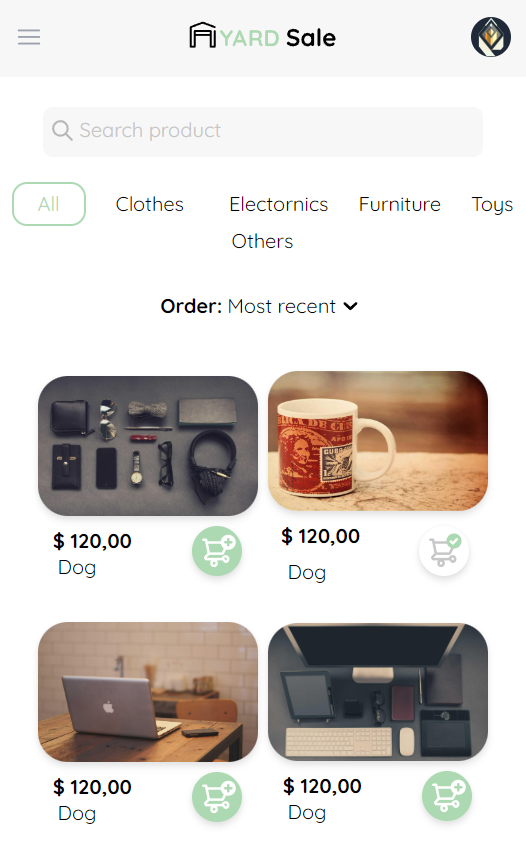
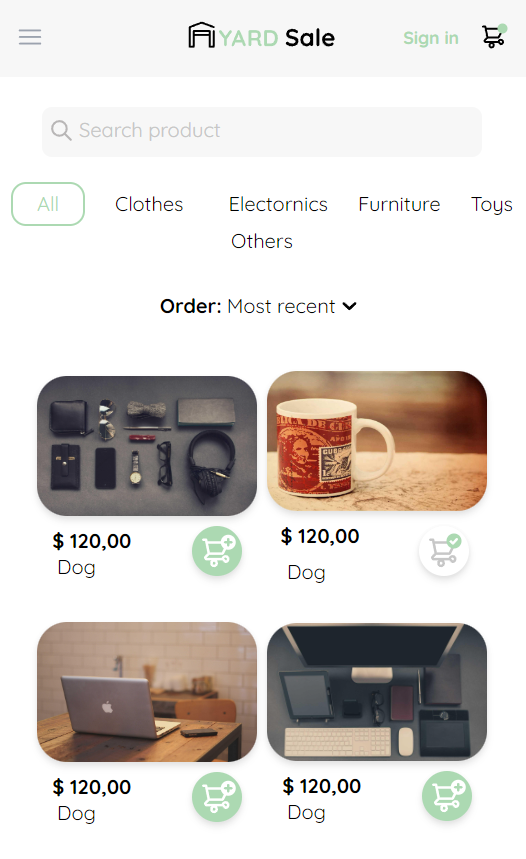
[FINISH] Sing_out

diff --git a/src/components/Sign_out.jsx b/src/components/Sign_out.jsx
@@ -17,12 +17,12 @@ const navigation = [
 	{
 		name: 'Electronics',
 		href: '#',
-		current: false,
+		current: false
 	},
 	{
 		name: 'Furniture',
 		href: '#',
-		current: false,
+		current: false
 	},
 ];
 const navigationO = [
@@ -83,13 +83,8 @@ export default function Example() {
 							<div className="flex flex-1 items-center justify-center sm:items-stretch sm:justify-start">
 								<div className="flex flex-shrink-0 items-center">
 									<a href="/">
-                                    <img
-										className="h-8 w-full"
-										src="\yard_sale.svg"
-										alt="Yard Sale"
-									/>
-                                    </a>
-                                    
+										<img className="h-8 w-full" src="\yard_sale.svg" alt="Yard Sale" />
+									</a>
 								</div>
 								<div className="hidden sm:ml-6 sm:block">
 									<div className="flex space-x-4">
@@ -101,7 +96,7 @@ export default function Example() {
 												rel="noopener noreferrer"
 												className={classNames(
 													item.current
-														? 'bg-grisClaro text-verde border-2 border-verde'
+														? 'border-2 border-verde bg-grisClaro text-verde'
 														: 'text-black hover:bg-[#acacac] hover:text-white',
 													'rounded-xl px-4 py-1 text-sm font-medium'
 												)}
@@ -110,7 +105,7 @@ export default function Example() {
 												{item.name}
 											</a>
 										))}
-										{navigationT.map((item) => (
+                                        {navigationT.map((item) => (
 											<a
 												key={item.name}
 												href={item.href}
@@ -154,9 +149,31 @@ export default function Example() {
 										<MenuButton className="relative flex text-sm focus:outline-none focus:ring-2 focus:ring-white focus:ring-offset-2 focus:ring-offset-gray-800">
 											<span className="absolute -inset-1.5" />
 											<span className="sr-only">Open user menu</span>
-											<p class="text-verde font-bold">Sign in</p>
+											<p class="hidden font-bold lg:flex">
+												yardsale@examle.com
+												<img
+													className="ml-2 rotate-90 flex sm:flex"
+                                                    class="h-8 w-8"
+													src="\flechita_2.svg"
+													alt="Flecha"
+												/>
+											</p>
 										</MenuButton>
-										<img className="h-6 w-6 ml-4" src="\Platzi Yard Sale\Platzi_YardSale_Icons\icon_shopping_cart_notification.svg" alt="icon_shopping_cart_notification" />
+                                        <MenuButton className="relative flex text-sm focus:outline-none focus:ring-2 focus:ring-white focus:ring-offset-2 focus:ring-offset-gray-800">
+											<span className="absolute -inset-1.5" />
+											<span className="sr-only">Open user menu</span>
+												<img
+													className="ml-2 rotate-90 flex lg:hidden"
+                                                    class="h-8 w-8"
+													src="\flechita_2.svg"
+													alt="Flecha"
+												/>
+										</MenuButton>
+										<img
+											className="ml-4 h-6 w-6"
+											src="\Platzi Yard Sale\Platzi_YardSale_Icons\icon_shopping_cart_notification.svg"
+											alt="icon_shopping_cart_notification"
+										/>
 									</div>
 									<Transition
 										enter="transition ease-out duration-100"
@@ -167,16 +184,30 @@ export default function Example() {
 										leaveTo="transform opacity-0 scale-95"
 									>
 										<MenuItems className="absolute right-0 z-10 mt-2 w-48 origin-top-right rounded-md bg-white py-1 shadow-lg ring-1 ring-black ring-opacity-5 focus:outline-none">
+                                        <MenuItem>
+												{({ focus }) => (
+													<a
+														href="#"
+														className={classNames(
+															focus ? 'bg-gray-100' : '',
+															'block px-4 py-2 text-sm font-bold text-gray-800 lg:hidden'
+														)}
+													>
+														yardsale@examle.com
+													</a>
+												)}
+											</MenuItem>
+                                        <hr class="ml-4 w-[10rem] my-2 flex lg:hidden" />
 											<MenuItem>
 												{({ focus }) => (
 													<a
 														href="#"
 														className={classNames(
 															focus ? 'bg-gray-100' : '',
-															'block px-4 py-2 text-sm text-gray-700'
+															'block px-4 py-2 text-sm font-bold text-gray-800'
 														)}
 													>
-														Prueba
+														My orders
 													</a>
 												)}
 											</MenuItem>
@@ -186,10 +217,24 @@ export default function Example() {
 														href="#"
 														className={classNames(
 															focus ? 'bg-gray-100' : '',
-															'block px-4 py-2 text-sm text-gray-700'
+															'block px-4 py-2 text-sm font-bold text-gray-800'
 														)}
 													>
-														Sign out
+														My account
+													</a>
+												)}
+											</MenuItem>
+											<hr class="ml-4 w-[10rem] my-2" />
+											<MenuItem>
+												{({ focus }) => (
+													<a
+														href="#"
+														className={classNames(
+															focus ? 'bg-gray-100' : '',
+															'block px-4 py-2 text-sm font-bold text-verde'
+														)}
+													>
+														Sing Out
 													</a>
 												)}
 											</MenuItem>
@@ -209,7 +254,7 @@ export default function Example() {
 									href={item.href}
 									className={classNames(
 										item.current
-											? 'bg-grisClaro text-verde border-2 border-verde'
+											? 'border-2 border-verde bg-grisClaro text-verde'
 											: 'text-gray-800 hover:bg-[#acacac] hover:text-white',
 										'block rounded-md px-3 py-2 text-base font-medium'
 									)}
